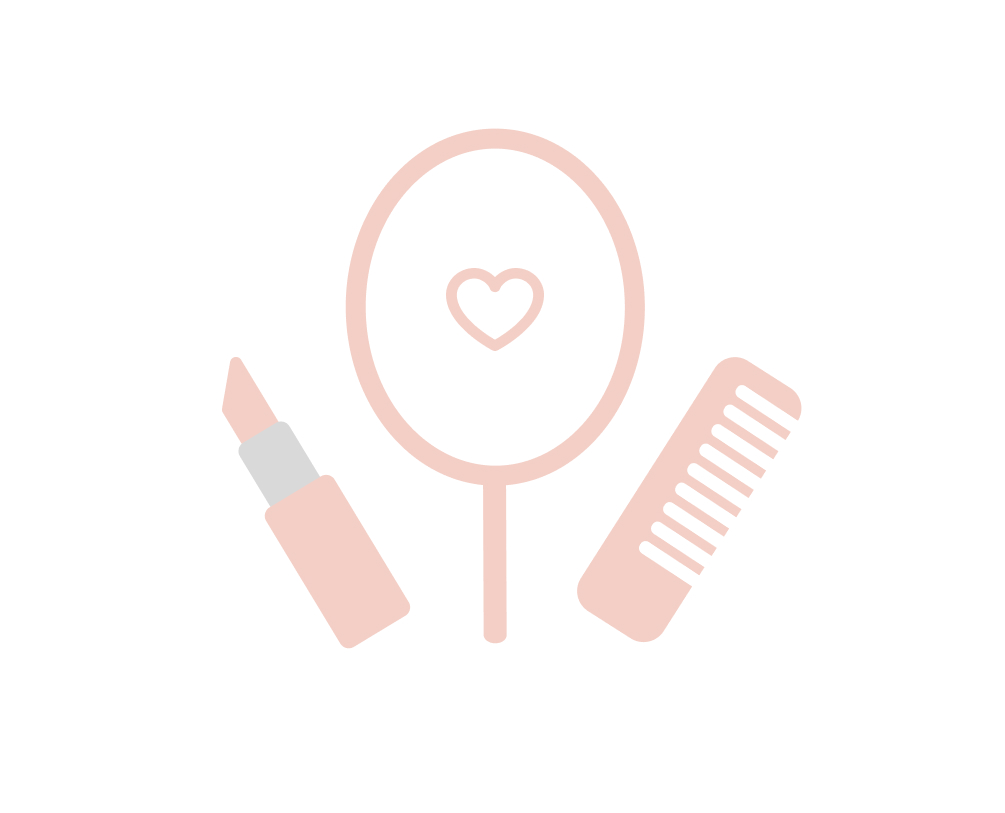
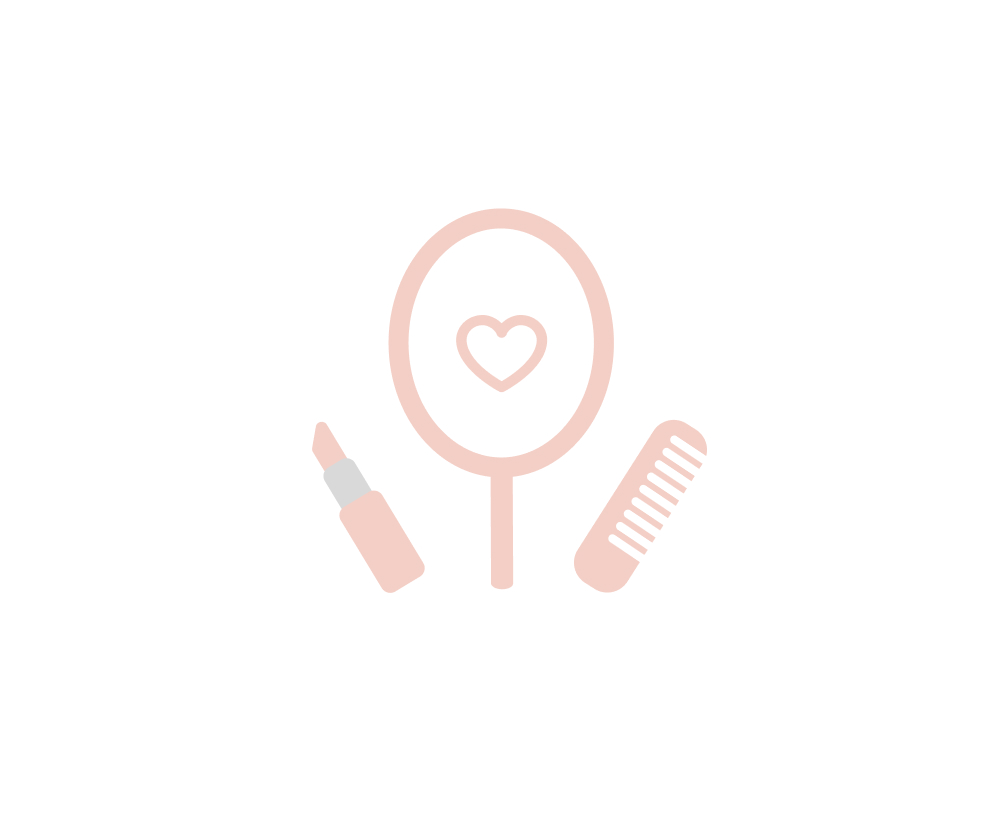
Small changes to image and prices

Changed region(s): [[0.3393, 0.1538, 0.6478, 0.7995], [0.5552, 0.4305, 0.802, 0.7995], [0.2159, 0.4305, 0.4318, 0.7995]]

diff --git a/frontend/src/features/directory/components/VendorCard.tsx b/frontend/src/features/directory/components/VendorCard.tsx
@@ -9,7 +9,7 @@ import Chip from '@mui/material/Chip';
 import { OverridableStringUnion } from '@mui/types';
 import LocationOnIconOutlined from '@mui/icons-material/LocationOnOutlined';
 import PublicIcon from '@mui/icons-material/Public';
-import defaultImage from '@/assets/placeholder_cover_img.jpeg';
+import defaultImage from '@/assets/placeholder_cover_img_heart.jpeg';
 
 export const VendorCard = ({
   vendor,
@@ -72,14 +72,16 @@ export const VendorCard = ({
             right: 12,
             display: 'flex',
             flexDirection: 'column',
-            gap: 0.5, // Adjust spacing between chips
+            gap: 1, // Adjust spacing between chips
             alignItems: 'flex-end',
           }}
         >
           {vendor.bridal_hair_price && (
             <Chip
-              label={`Hair from $${vendor.bridal_hair_price}`}
+              label={`✂ from $${vendor.bridal_hair_price}`}
               sx={{
+                outline: '2px solid',
+                outlineColor: 'primary.main',
                 backgroundColor: 'white',
                 fontWeight: 'medium',
                 textAlign: 'right',
@@ -88,8 +90,10 @@ export const VendorCard = ({
           )}
           {vendor.bridal_makeup_price && (
             <Chip
-              label={`Makeup from $${vendor.bridal_makeup_price}`}
+              label={`💄 from $${vendor.bridal_makeup_price}`}
               sx={{
+                outline: '2px solid',
+                outlineColor: 'primary.main',
                 backgroundColor: 'white',
                 fontWeight: 'medium',
                 textAlign: 'right'
